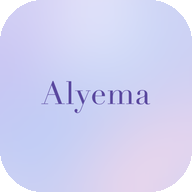
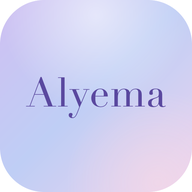
feat: update workspace

Changed region(s): [[0.125, 0.375, 0.875, 0.625], [0.125, 0.9688, 0.1562, 1.0], [0.0, 0.8438, 0.0312, 0.875]]

diff --git a/index.html b/index.html
@@ -11,8 +11,8 @@
   <meta name="description" content="Alyema helps you relax and focus with AI-guided visualization, calming ambient audio, mood boards, daily affirmations and gentle voice guidance.">
   <link rel="manifest" href="manifest.json">
   <meta name="theme-color" content="#120022">
-  <link rel="apple-touch-icon" href="icons/apple-touch-icon.png?v=20261027iconC">
-  <link rel="icon" type="image/png" href="icons/icon-192.png?v=20261027iconC">
+  <link rel="apple-touch-icon" href="icons/apple-touch-icon.png?v=20261027iconD">
+  <link rel="icon" type="image/png" href="icons/icon-192.png?v=20261027iconD">
   <meta name="apple-mobile-web-app-capable" content="yes">
   <meta name="apple-mobile-web-app-title" content="Alyema">
   <meta name="mobile-web-app-capable" content="yes">

diff --git a/public/index.html b/public/index.html
@@ -11,8 +11,8 @@
   <meta name="description" content="Alyema helps you relax and focus with AI-guided visualization, calming ambient audio, mood boards, daily affirmations and gentle voice guidance.">
   <link rel="manifest" href="manifest.json">
   <meta name="theme-color" content="#120022">
-  <link rel="apple-touch-icon" href="icons/apple-touch-icon.png?v=20261027iconC">
-  <link rel="icon" type="image/png" href="icons/icon-192.png?v=20261027iconC">
+  <link rel="apple-touch-icon" href="icons/apple-touch-icon.png?v=20261027iconD">
+  <link rel="icon" type="image/png" href="icons/icon-192.png?v=20261027iconD">
   <meta name="apple-mobile-web-app-capable" content="yes">
   <meta name="apple-mobile-web-app-title" content="Alyema">
   <meta name="mobile-web-app-capable" content="yes">
